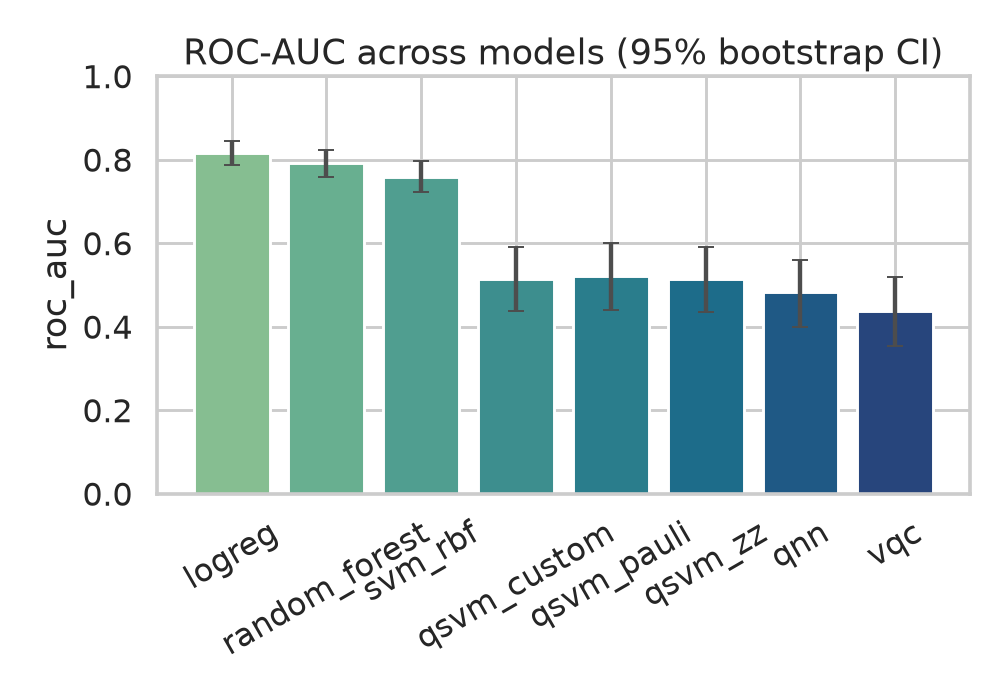
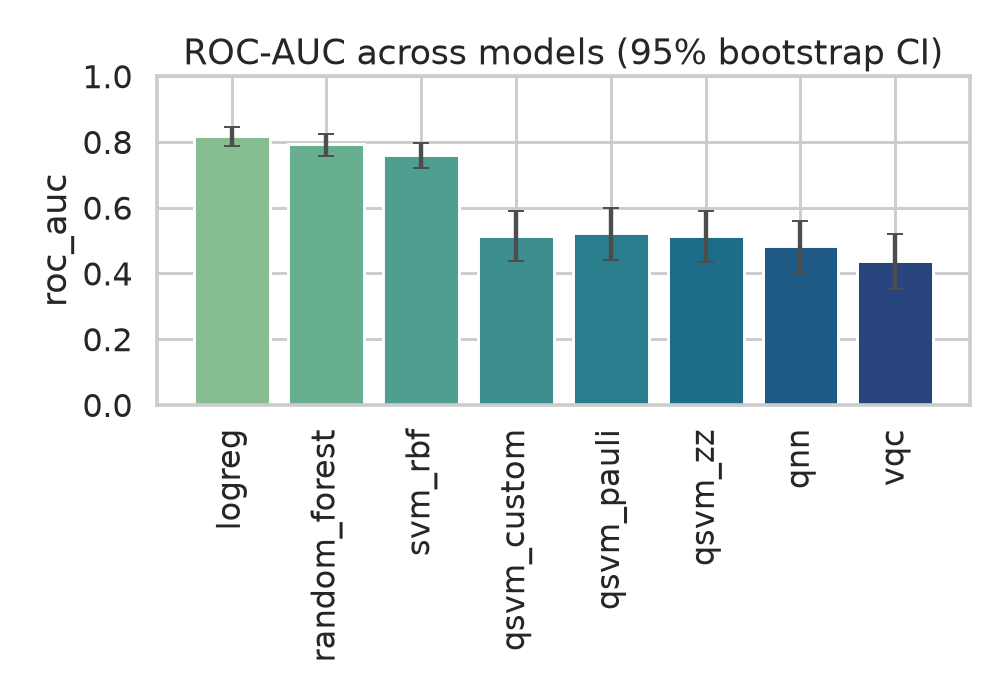
Stop the CI bar chart's model names from overlapping
In reports/figures/roc_auc_ci_comparison.png, one of the README's key
figures, the 30-degree tick labels printed "random_forest" on top of
"svm_rbf". A new test renders plot_metric_bars_with_ci with the eight
model names and checks that adjacent tick-label boxes do not overlap; it
failed at 30 degrees and passes with vertical labels.

The figure was regenerated with run_reports() alone (no retraining). The
other four bar charts it rewrites came back byte-identical and are not
part of this commit. The suite now has 49 tests.

Claude-Session: https://claude.ai/code/session_01PWSXcyEx8MpeCxMpwDRFHN

diff --git a/tests/test_evaluation.py b/tests/test_evaluation.py
@@ -3,6 +3,7 @@
 from __future__ import annotations
 
 import numpy as np
+from matplotlib.figure import Figure
 
 from qml_healthcare.evaluation import (
     bootstrap_metric_ci,
@@ -120,6 +121,36 @@ def test_plot_metric_bars_with_ci_writes_file(tmp_path):
     path = tmp_path / "ci_bars.png"
     plot_metric_bars_with_ci(results, "roc_auc", path, ylim=(0, 1))
     assert path.exists() and path.stat().st_size > 1000
+
+
+def test_plot_metric_bars_with_ci_tick_labels_do_not_overlap(tmp_path, monkeypatch):
+    """The README's key figure used to print 'random_forest' on top of 'svm_rbf'."""
+    boxes = []
+    original_savefig = Figure.savefig
+
+    def spy(self, *args, **kwargs):
+        out = original_savefig(self, *args, **kwargs)  # draws the figure
+        renderer = self.canvas.get_renderer()
+        boxes.extend(t.get_window_extent(renderer) for t in self.axes[0].get_xticklabels())
+        return out
+
+    monkeypatch.setattr(Figure, "savefig", spy)
+    names = [
+        "logreg",
+        "random_forest",
+        "svm_rbf",
+        "qsvm_custom",
+        "qsvm_pauli",
+        "qsvm_zz",
+        "qnn",
+        "vqc",
+    ]
+    results = {n: {"roc_auc": 0.6, "roc_auc_ci_low": 0.5, "roc_auc_ci_high": 0.7} for n in names}
+    plot_metric_bars_with_ci(results, "roc_auc", tmp_path / "ci_bars.png", ylim=(0, 1))
+
+    assert len(boxes) == len(names)
+    for left, right in zip(boxes, boxes[1:], strict=False):
+        assert not left.overlaps(right)
 
 
 def test_dump_and_load_results_roundtrip(tmp_path):

diff --git a/src/qml_healthcare/evaluation.py b/src/qml_healthcare/evaluation.py
@@ -280,7 +280,7 @@ def plot_metric_bars_with_ci(
     if ylim is not None:
         ax.set_ylim(*ylim)
     ax.set_title(title or f"{metric} (95% bootstrap CI)")
-    ax.tick_params(axis="x", rotation=30)
+    ax.tick_params(axis="x", rotation=90)  # 30 degrees let long model names overlap
     fig.tight_layout()
     fig.savefig(path, dpi=140)
     plt.close(fig)

diff --git a/README.md b/README.md
@@ -144,7 +144,7 @@ python scripts/reproduce_all.py --n 400 --k 8 --reps 2 --maxiter 100
 │   ├── build_docs_tables.py   # Results table + chart data for the docs site
 │   ├── export_demo_model.py   # Compact logistic regression for the live demo
 │   └── sync_docs_assets.py    # Runs both docs generators and copies figures into docs/
-├── tests/                     # pytest — 48 deterministic tests, fast
+├── tests/                     # pytest — 49 deterministic tests, fast
 ├── reports/
 │   ├── figures/               # All generated PNGs (committed)
 │   ├── results.json           # Latest metrics dump
@@ -455,7 +455,7 @@ kernels, which reproduce the committed QSVM rows at s = 1 exactly. The pipeline 
 ## Development
 
 ```bash
-make test         # pytest — 48 deterministic tests, fast
+make test         # pytest — 49 deterministic tests, fast
 make lint         # ruff + black --check
 make format       # auto-fix formatting and lint
 make notebooks    # execute all notebooks via nbconvert
